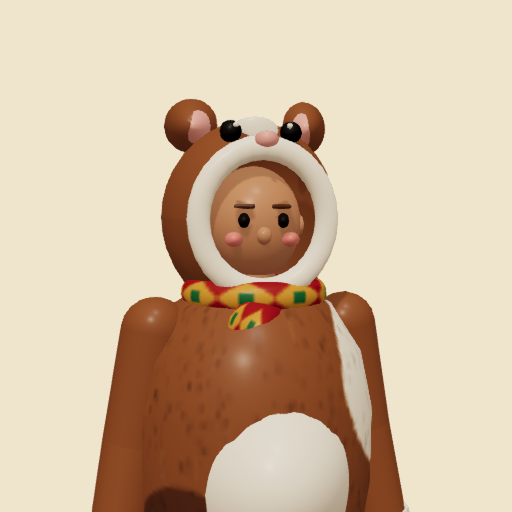
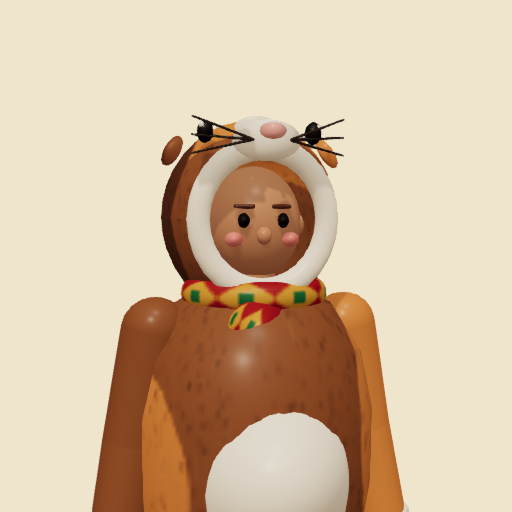
style: hace que el cuy se reconozca como cuy y no como oso

Changed region(s): [[0.3125, 0.1875, 0.6562, 0.5625], [0.625, 0.5625, 0.8125, 1.0], [0.25, 0.7188, 0.4062, 1.0]]

diff --git a/src/experience/world/avatars/GuineaPigAvatar.ts b/src/experience/world/avatars/GuineaPigAvatar.ts
@@ -7,13 +7,15 @@ import { ProceduralAvatar } from "./ProceduralAvatar";
 const SKIN = "#b98462";
 const FUR = "#8a5530";
 const FUR_DARK = "#5e3720";
+const CINNAMON = "#c97e3e";
 const FUR_WHITE = "#f1e6d2";
 const PINK = "#e3a29a";
 
 /**
  * "cuy": a person in a full guinea-pig costume, like the ones of the Pasto carnival: a round
- * brown and white furry body, a hood with round ears and its own little eyes, the face of the
- * wearer showing, paws and a red scarf with a Barniz pattern.
+ * body with white, brown and cinnamon patches, a hood with small petal ears on the sides, eyes
+ * on the sides and a short snout with a pink nose and whiskers, the face of the wearer showing,
+ * paws and a red scarf with a Barniz pattern.
  */
 export class GuineaPigAvatar extends ProceduralAvatar {
   constructor(context: AvatarContext) {
@@ -59,9 +61,7 @@ export class GuineaPigAvatar extends ProceduralAvatar {
         ctx.ellipse(x, y, rx, ry, 0, 0, Math.PI * 2);
         ctx.fill();
       };
-      blob(w * 0.5, h * 0.35, 30, 26, FUR_WHITE);
-      blob(w * 0.12, h * 0.7, 18, 22, FUR_DARK);
-      blob(w * 0.82, h * 0.6, 22, 20, FUR_DARK);
+      GuineaPigAvatar.patches(blob, w, h);
       this.atlas.fibers(ctx, w, h, 0.08, 0.16);
     });
     this.parts
@@ -95,10 +95,12 @@ export class GuineaPigAvatar extends ProceduralAvatar {
   protected buildArms(): void {
     const b = this.body;
     for (const side of [-1, 1] as const) {
-      this.carveArm(side, FUR, FUR, FUR_WHITE, 0.064);
+      // Tricolor like a real cuy: one cinnamon sleeve and one brown.
+      const sleeve = side < 0 ? CINNAMON : FUR;
+      this.carveArm(side, sleeve, sleeve, FUR_WHITE, 0.064);
       const x = side * b.shoulderWidth;
       const elbow = side < 0 ? "elbowL" : "elbowR";
-      this.parts.sphere(elbow, this.atlas.solid(FUR), [x, b.wristHeight - 0.03, 0.005], 0.11, [1, 1, 0.9], 12);
+      this.parts.sphere(elbow, this.atlas.solid(side < 0 ? CINNAMON : FUR), [x, b.wristHeight - 0.03, 0.005], 0.11, [1, 1, 0.9], 12);
       this.parts.sphere(elbow, this.atlas.solid(PINK), [x, b.wristHeight - 0.04, 0.05], 0.05, [1, 1, 0.4], 10);
     }
   }
@@ -113,25 +115,65 @@ export class GuineaPigAvatar extends ProceduralAvatar {
     }
   }
 
-  /** The hood: a furry shell open at the front, round ears and the cuy's own face on top. */
+  /**
+   * The hood: a patched furry shell open at the front. The cuy's face sits on the brim, above
+   * the wearer's: eyes on the sides, a short white snout with a pink nose and whiskers, and
+   * small petal ears that droop on the sides of the head (not on top, so it is not a bear).
+   */
   protected buildHeadwear(): void {
     const y = this.body.headHeight;
-    const fur = this.atlas.solid(FUR);
     const white = this.atlas.solid(FUR_WHITE);
-    this.carveHood(fur, y);
+    const pink = this.atlas.solid(PINK);
+    const hood = this.atlas.paint(128, 96, (ctx, w, h) => {
+      ctx.fillStyle = FUR;
+      ctx.fillRect(0, 0, w, h);
+      const blob = (x: number, py: number, rx: number, ry: number, color: string) => {
+        ctx.fillStyle = color;
+        ctx.beginPath();
+        ctx.ellipse(x, py, rx, ry, 0, 0, Math.PI * 2);
+        ctx.fill();
+      };
+      // u = 0.25 is the top of the hood after it is turned; the cinnamon patch covers one side.
+      blob(w * 0.75, h * 0.55, 26, 34, CINNAMON);
+      blob(w * 0.05, h * 0.6, 14, 22, FUR_DARK);
+      blob(w * 0.95, h * 0.6, 14, 22, FUR_DARK);
+      this.atlas.fibers(ctx, w, h, 0.08, 0.16);
+    });
+    this.carveHood(hood, y);
     const rim = this.parts.torus("head", white, [0, y + 0.01, 0.1], 0.285, 0.05, 28);
     rim.rotation.x = Math.PI / 2;
     rim.scaling.set(0.92, 1.05, 1);
-    // White blaze over the top, like a real cuy.
-    this.parts.sphere("head", white, [0, y + 0.19, 0.0], 0.14, [0.7, 0.45, 1.3], 14);
+
+    // White blaze from the snout over the head.
+    this.parts.sphere("head", white, [0, y + 0.19, 0.01], 0.15, [0.62, 0.42, 1.35], 14);
+    // Short snout on the brim, with a pink nose and whiskers.
+    this.parts.sphere("head", white, [0, y + 0.165, 0.125], 0.13, [1.05, 0.62, 0.85], 16);
+    this.parts.sphere("head", pink, [0, y + 0.18, 0.18], 0.042, [1.25, 0.75, 0.8], 10);
+    const whisker = this.atlas.solid("#3a2a20");
     const eye = this.atlas.solid("#120c0a");
     for (const side of [-1, 1]) {
-      this.parts.sphere("head", eye, [side * 0.062, y + 0.185, 0.07], 0.045, [1, 1, 0.8], 10);
-      this.parts.sphere("head", white, [side * 0.055, y + 0.197, 0.09], 0.012, [1, 1, 1], 6);
-      this.parts.sphere("head", fur, [side * 0.125, y + 0.205, -0.06], 0.12, [1, 0.95, 0.42], 14).rotation.y = side * 0.5;
-      this.parts.sphere("head", this.atlas.solid(PINK), [side * 0.123, y + 0.203, -0.042], 0.08, [1, 0.95, 0.25], 12).rotation.y = side * 0.5;
+      for (const tilt of [-0.012, 0.004, 0.02]) {
+        this.parts.capsule("head", whisker, [side * 0.035, y + 0.163, 0.17], [side * 0.15, y + 0.163 + tilt * 2.2, 0.145], 0.0025, 0.0018);
+      }
+      // Eyes on the sides of the head, as guinea pigs have them.
+      this.parts.sphere("head", eye, [side * 0.112, y + 0.185, 0.06], 0.046, [0.7, 1, 1], 10);
+      this.parts.sphere("head", white, [side * 0.121, y + 0.197, 0.075], 0.012, [1, 1, 1], 6);
+      // Small petal ears hanging on the sides of the hood.
+      const ear = this.parts.sphere("head", side < 0 ? this.atlas.solid(CINNAMON) : this.atlas.solid(FUR), [side * 0.168, y + 0.15, -0.03], 0.11, [0.24, 0.62, 1], 12);
+      ear.rotation.set(0.25, 0, side * 0.55);
+      const inner = this.parts.sphere("head", pink, [side * 0.177, y + 0.146, -0.025], 0.075, [0.12, 0.55, 0.85], 10);
+      inner.rotation.set(0.25, 0, side * 0.55);
     }
-    this.parts.sphere("head", this.atlas.solid(PINK), [0, y + 0.168, 0.125], 0.04, [1.2, 0.8, 0.8], 10);
+  }
+
+  /** Brown base with white, dark brown and cinnamon patches (they close around u). */
+  private static patches(blob: (x: number, y: number, rx: number, ry: number, color: string) => void, w: number, h: number): void {
+    // u = 0.25 is the front (the white belly goes there), 0.75 the back.
+    blob(w * 0.75, h * 0.4, 30, 32, FUR_WHITE);
+    blob(w * 0.5, h * 0.45, 24, 34, CINNAMON);
+    blob(w * 0.98, h * 0.55, 22, 30, CINNAMON);
+    blob(w * 0.02, h * 0.55, 22, 30, CINNAMON);
+    blob(w * 0.86, h * 0.82, 14, 12, FUR_DARK);
   }
 
   /** A turned dome whose axis points forward, so its opening frames the face. */
